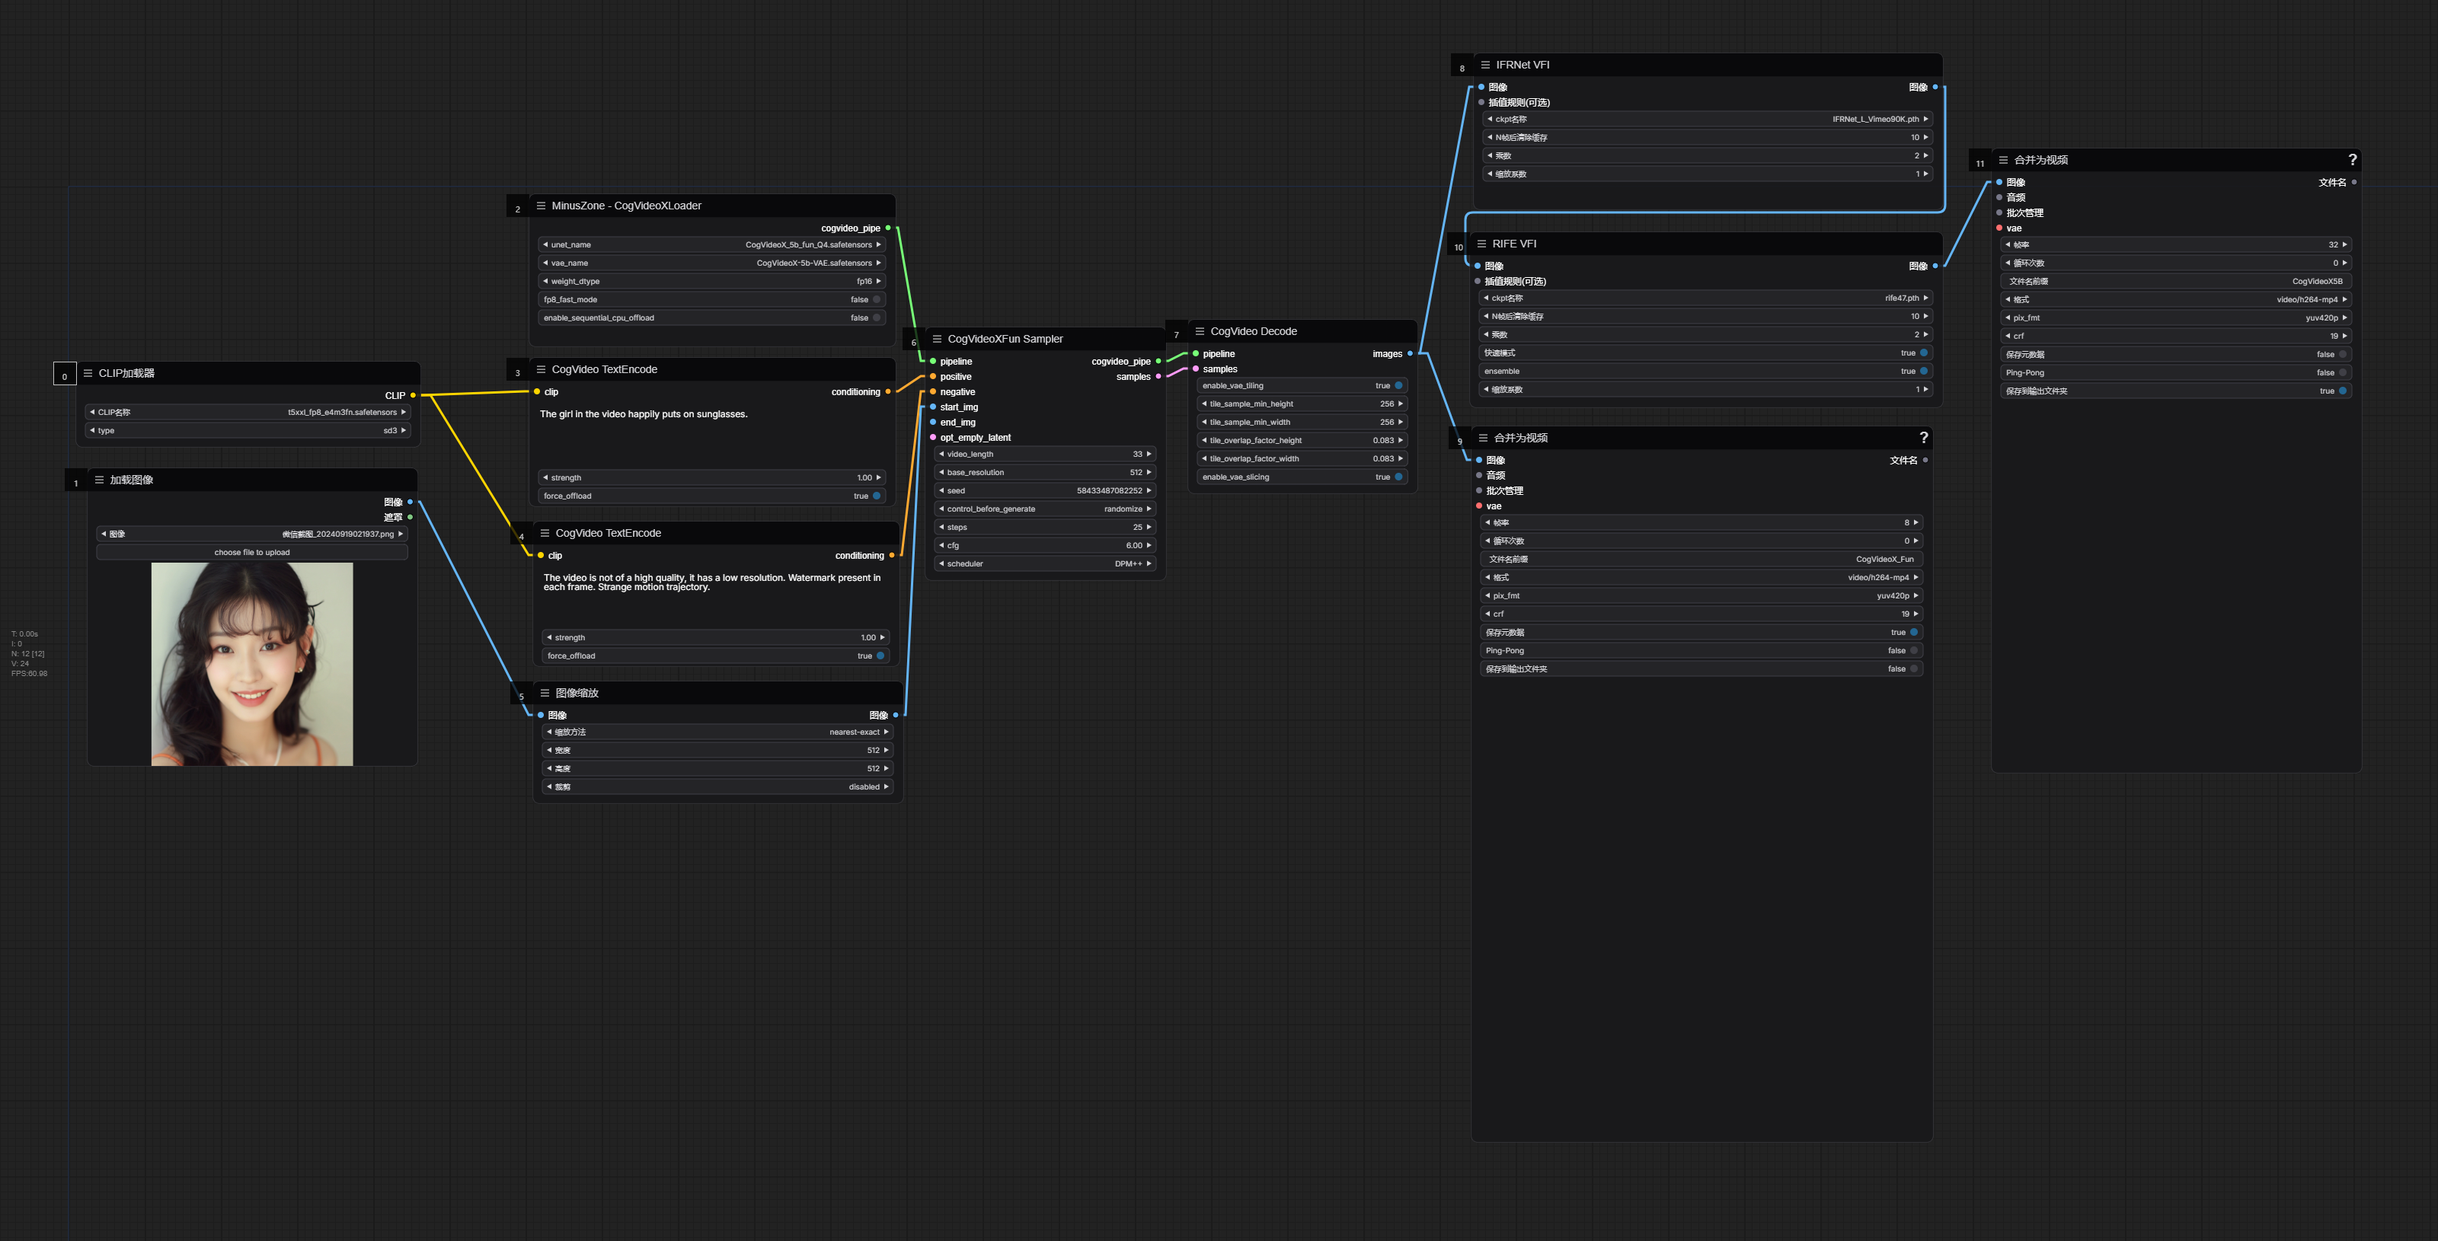
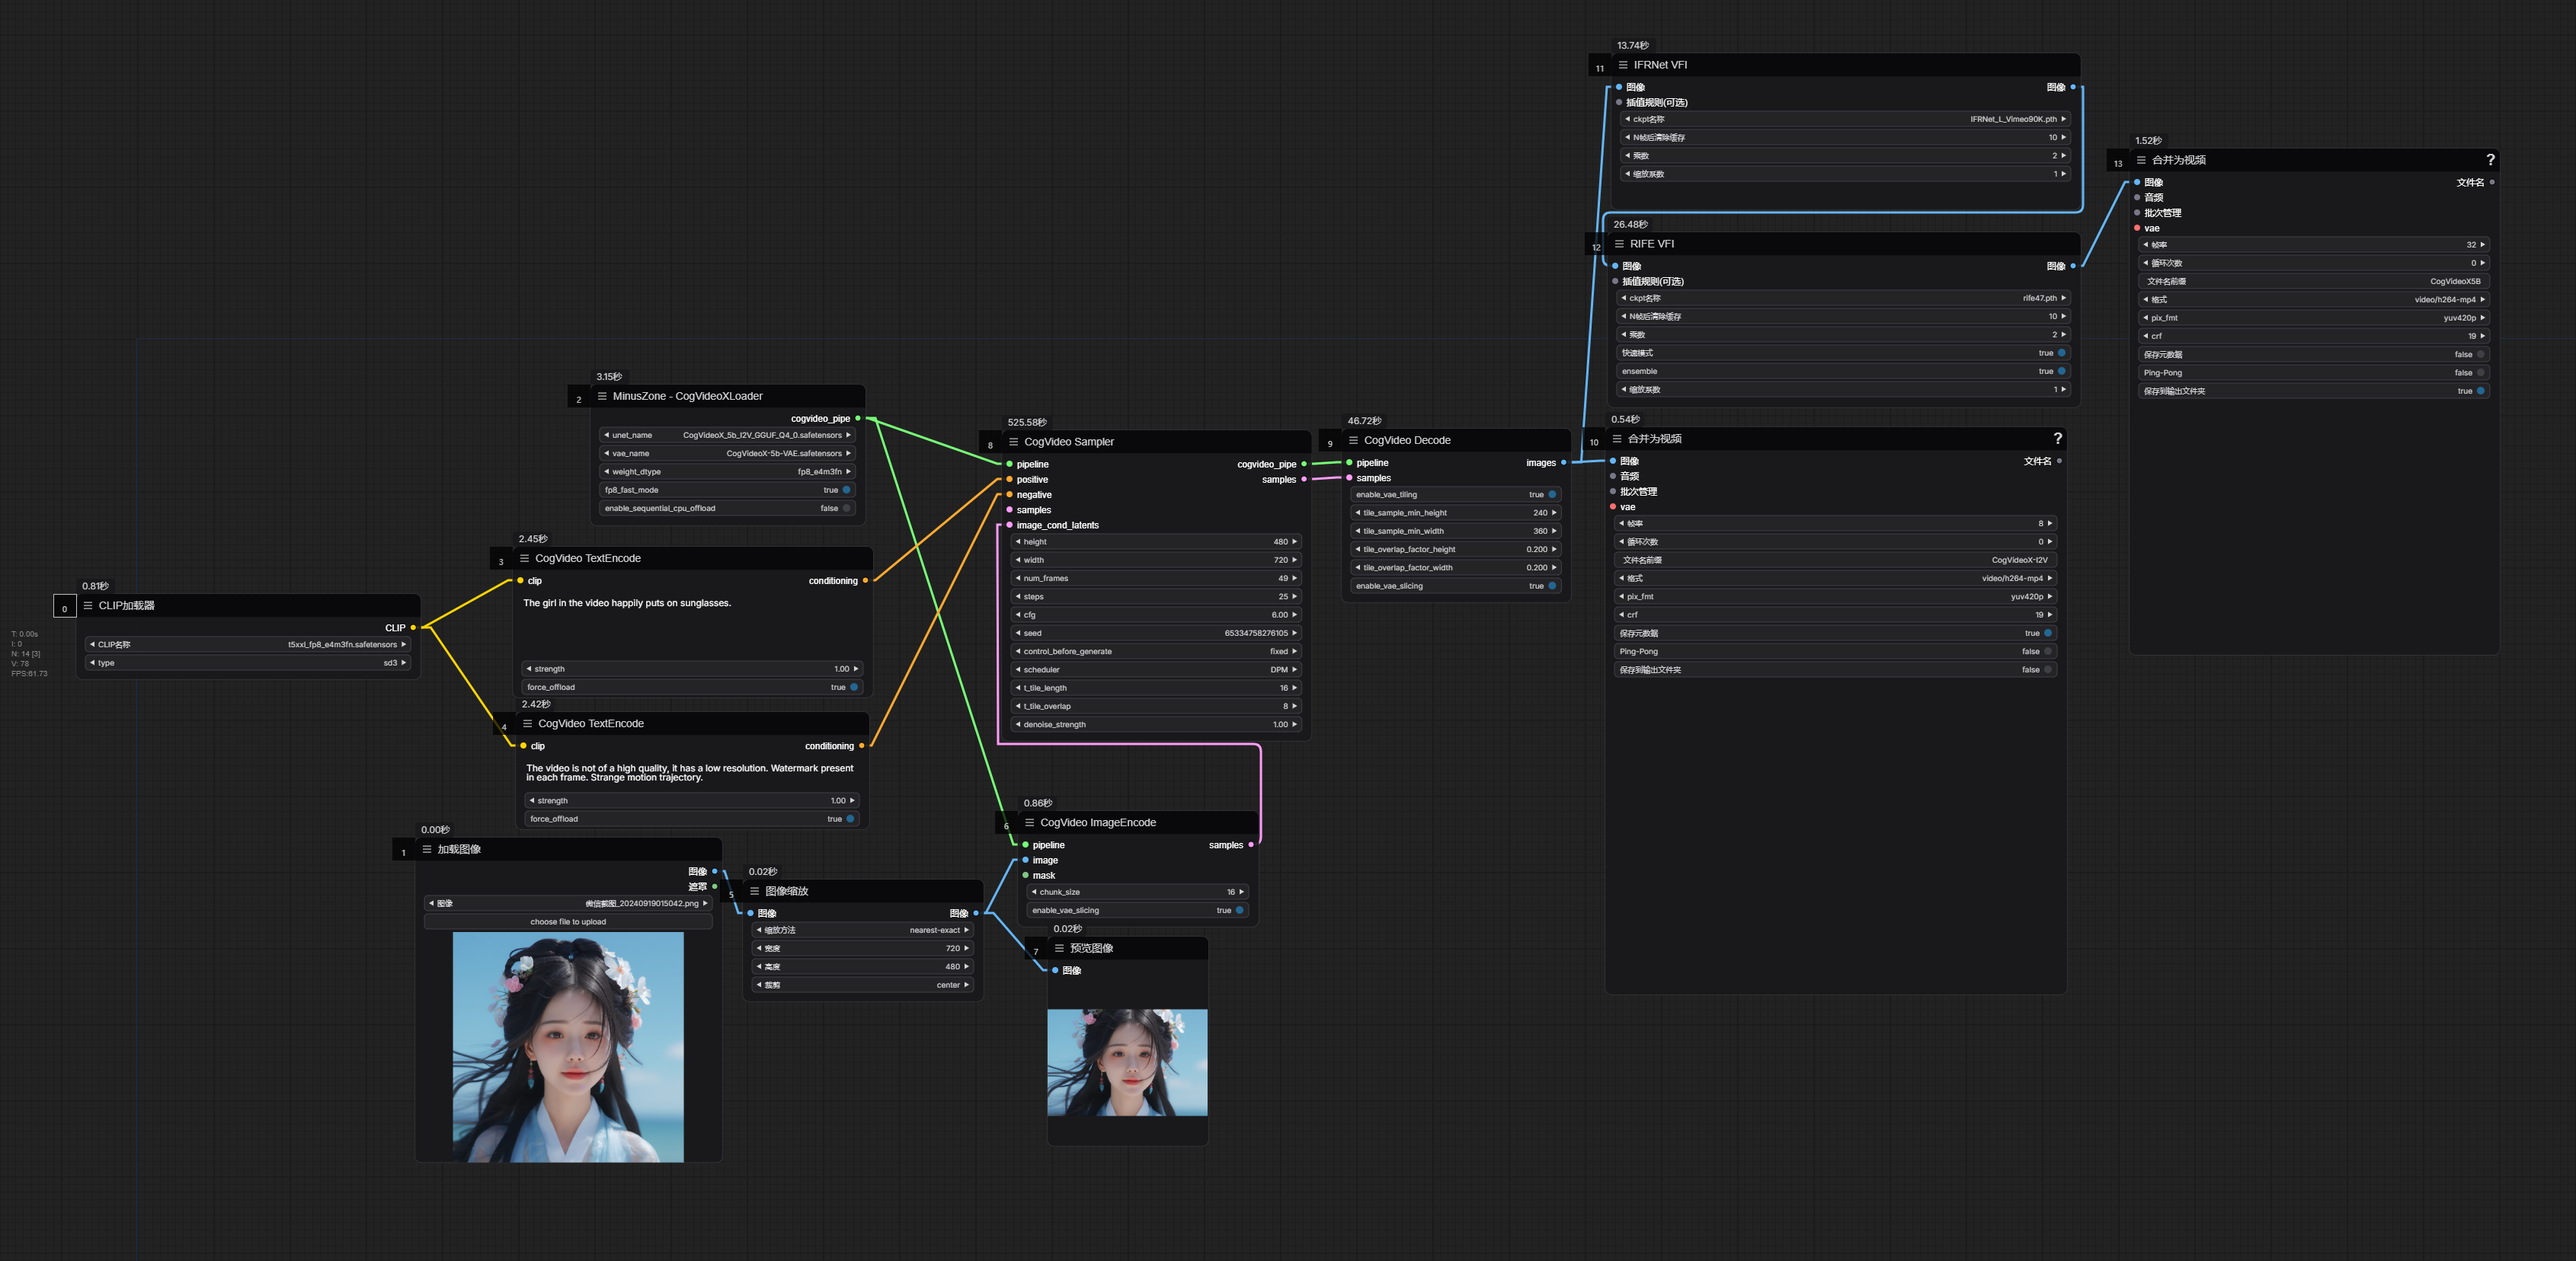
'update'

diff --git a/mz_cogvideox_core.py b/mz_cogvideox_core.py
@@ -181,7 +181,7 @@ cogVideoXDDIMSchedulerConfig5B = {
     "set_alpha_to_one": True,
     "snr_shift_scale": 1.0,
     "steps_offset": 0,
-    "timestep_spacing": "linspace",
+    "timestep_spacing": "trailing",
     "trained_betas": None,
 }
 
@@ -266,6 +266,8 @@ def MZ_CogVideoXLoader_call(args={}):
         transformer_type = "fun_2b"
     elif unet_sd["patch_embed.proj.weight"].shape == (1920, 16, 2, 2):
         transformer_type = "2b"
+    elif unet_sd["patch_embed.proj.weight"].shape == (3072, 32, 2, 2):
+        transformer_type = "i2v_5b"
     else:
         raise Exception("This model is not supported")
 
@@ -295,6 +297,13 @@ def MZ_CogVideoXLoader_call(args={}):
             base_path = os.path.join(
                 os.path.dirname(__file__),
                 "configs5b-Fun",
+            )
+        elif transformer_type == "i2v_5b":
+            transformer_config["in_channels"] = 32
+            transformer_config["use_learned_positional_embeddings"] = True
+            base_path = os.path.join(
+                os.path.dirname(__file__),
+                "configs5b-i2v",
             )
 
     if transformer_type.endswith("2b"):
@@ -362,9 +371,14 @@ def MZ_CogVideoXLoader_call(args={}):
             print("convert to fp8 linear")
             convert_fp8_linear(transformer, weight_dtype, manual_cast_dtype)
 
-        if transformer_type.endswith("2b"):
-            transformer.pos_embedding = transformer.pos_embedding.to(
-                manual_cast_dtype)
+        if transformer_type.endswith("2b") or transformer_type == "i2v_5b":
+            if hasattr(transformer, "pos_embedding"):
+                transformer.pos_embedding = transformer.pos_embedding.to(
+                    manual_cast_dtype)
+            if hasattr(transformer, "patch_embed") and hasattr(transformer.patch_embed, "pos_embedding"):
+                transformer.patch_embed.pos_embedding = transformer.patch_embed.pos_embedding.to(
+                    manual_cast_dtype)
+             
 
     transformer.to(device)
 

diff --git a/README.md b/README.md
@@ -6,6 +6,17 @@
  
 Based on https://github.com/kijai/ComfyUI-CogVideoXWrapper add model loader and some other features, you need to install ComfyUI-CogVideoXWrapper before using
 
+## Update - 2024-09-22
+支持CogVideoX-I2V图生视频, 提供Q4量化模型
+
+(support CogVideoX-I2V image to video, provide Q4 quantization model)
+
+[CogVideoX_5b_I2V_GGUF_Q4_0.safetensors](https://huggingface.co/Kijai/CogVideoX_GGUF/resolve/main/CogVideoX_5b_I2V_GGUF_Q4_0.safetensors) 下载到unet文件夹 (Donwload to unet folder)
+
+工作流在examples\workflow_I2V_GGUF_Q4_0.png (Workflow in examples\workflow_I2V_GGUF_Q4_0.png)
+
+Prompt :The girl in the video happily puts on sunglasses.
+
 
 ## Update - 2024-09-19
 支持CogVideoX-Fun图生视频, 提供Q4量化模型
@@ -14,7 +25,7 @@ Based on https://github.com/kijai/ComfyUI-CogVideoXWrapper add model loader and 
 
 [CogVideoX_Fun_GGUF_Q4_0.safetensors](https://modelscope.cn/models/wailovet/CogVideoX-5b/resolve/master/CogVideoX_5b_fun_GGUF_Q4_0.safetensors) 下载到unet文件夹 (Donwload to unet folder)
 
-工作流在examples\workflow_I2V_GGUF_Q4_0.png (Workflow in examples\workflow_I2V_GGUF_Q4_0.png)
+工作流在examples\workflow_FUN_I2V_GGUF_Q4_0.png (Workflow in examples\workflow_FUN_I2V_GGUF_Q4_0.png)
 
 Prompt :The girl in the video happily puts on sunglasses.
 
